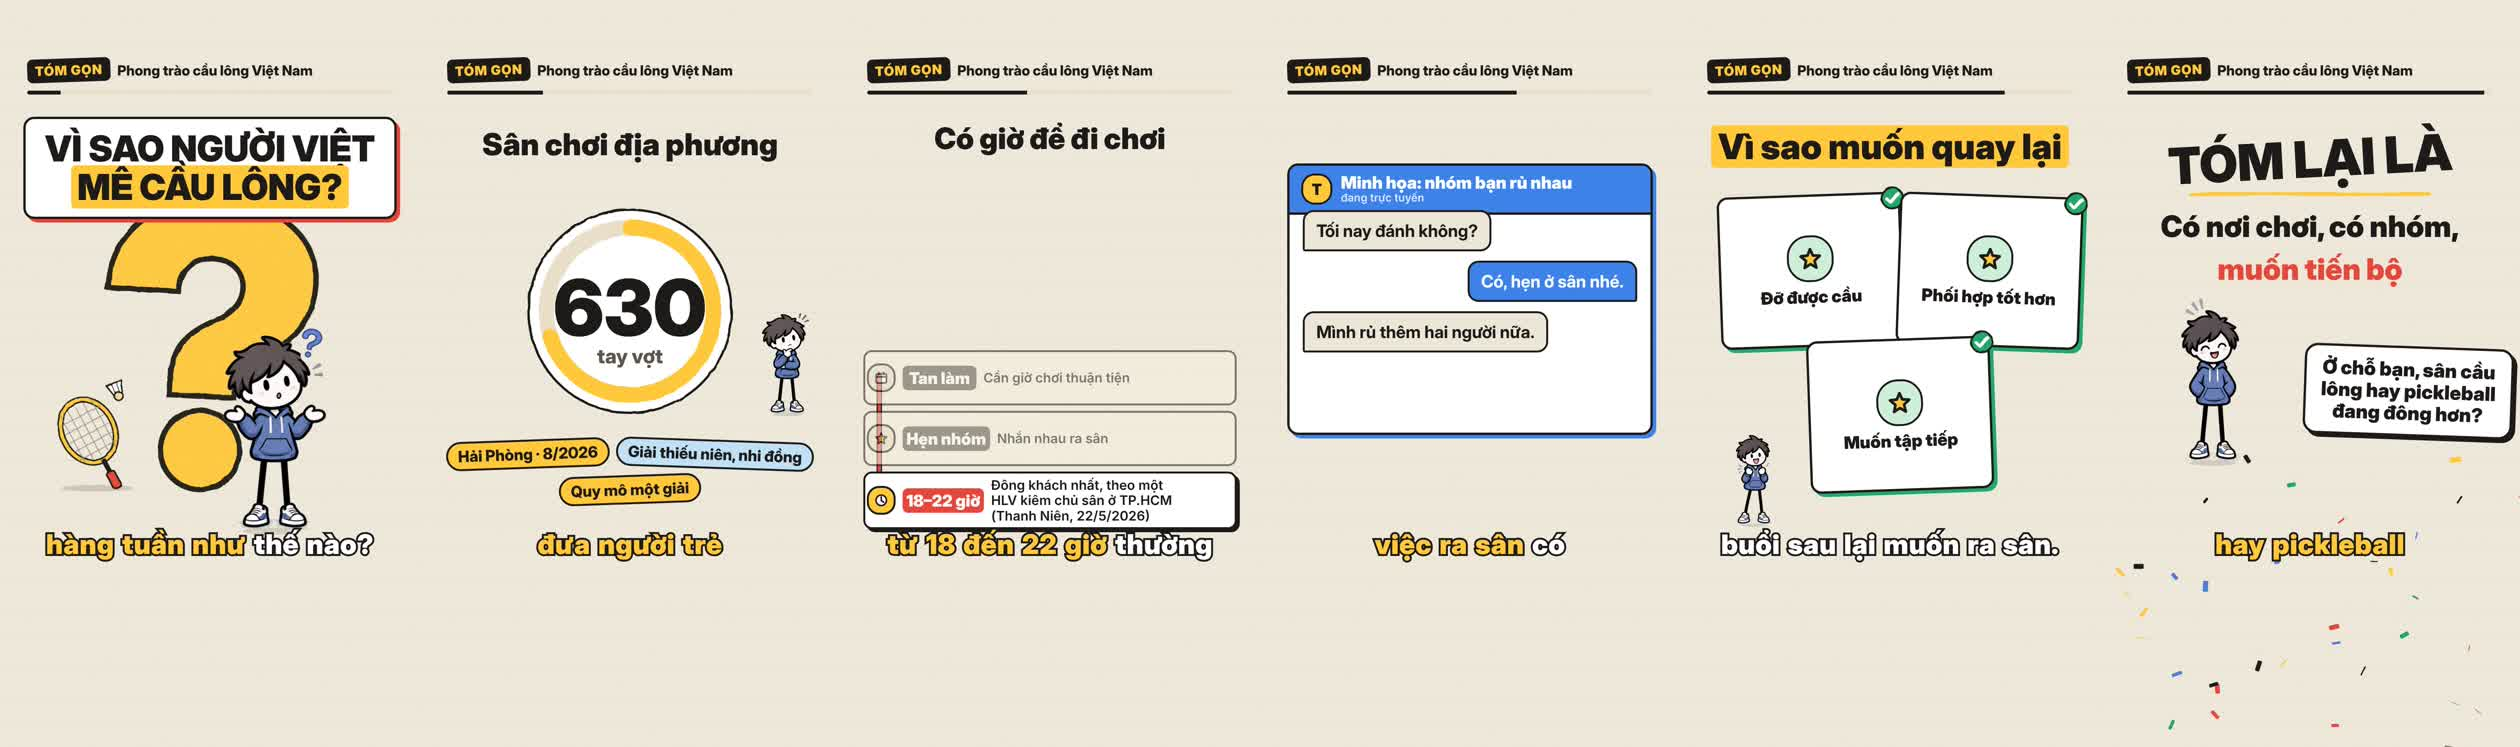
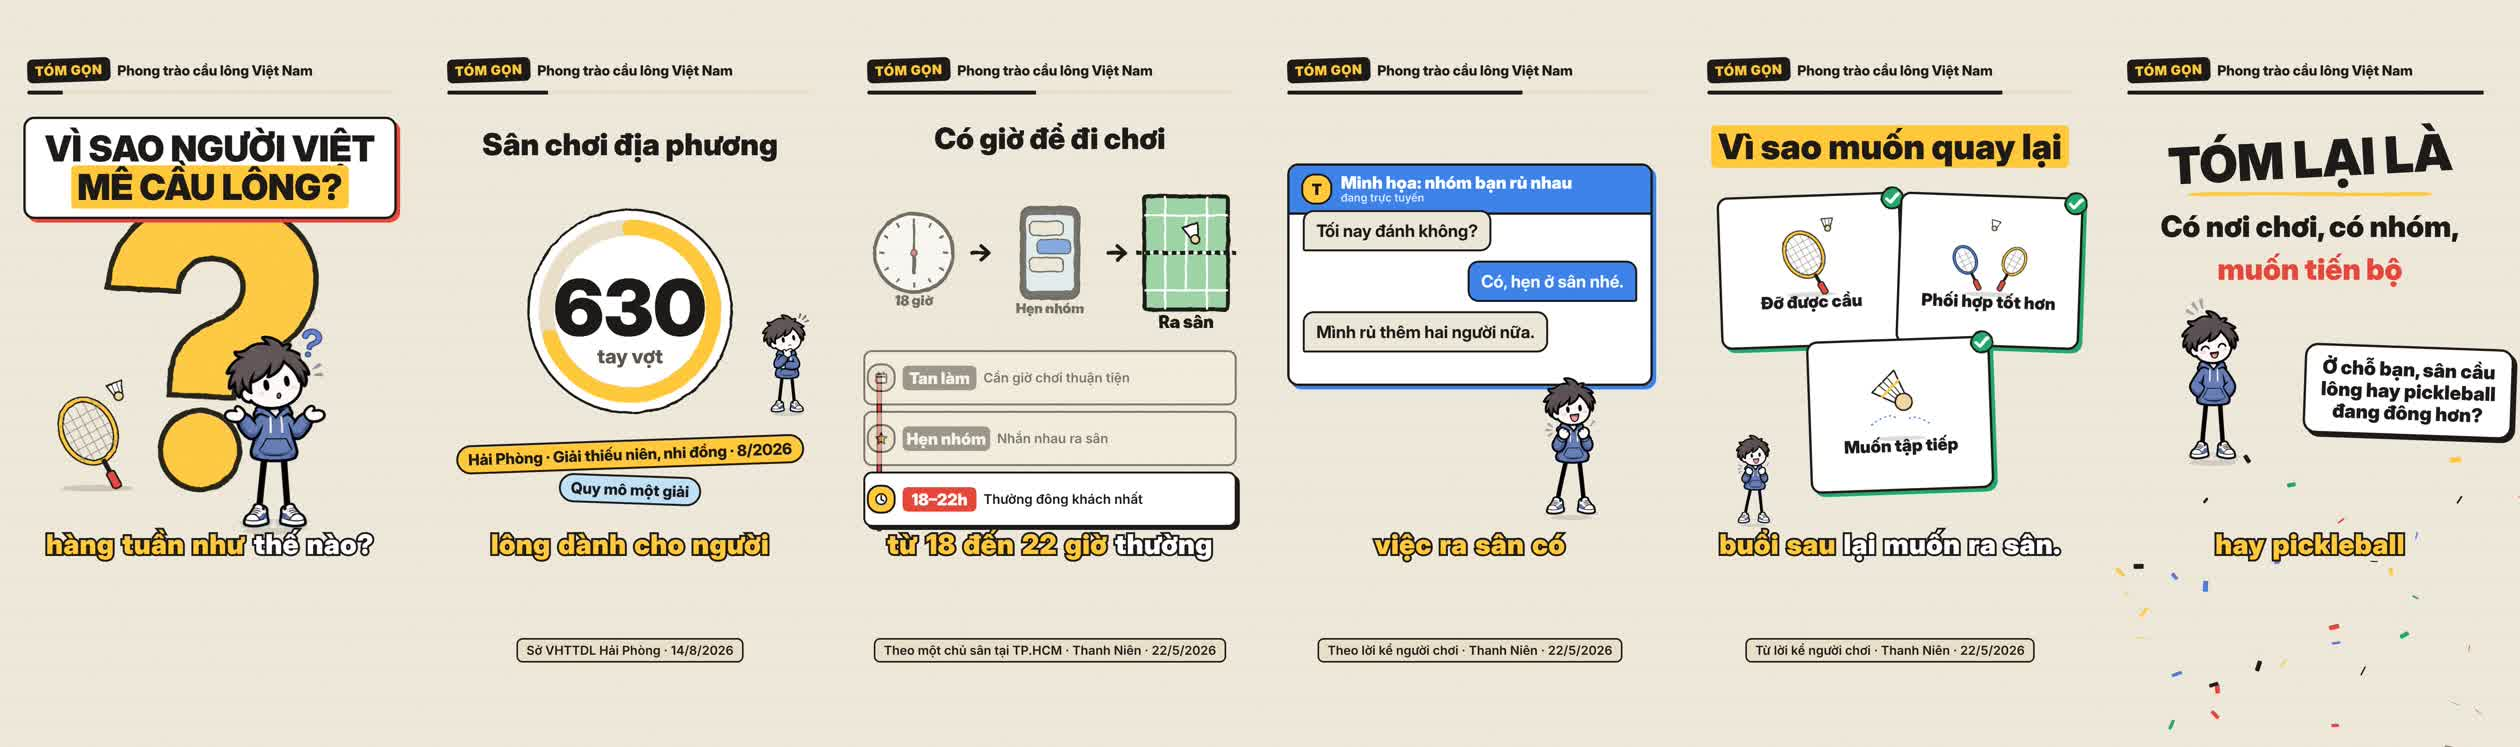
Cầu lông VN vòng 3: sửa chữ theo bản chốt, nhãn nguồn riêng, hình tan làm/hẹn nhóm/ra sân, mascot lớn ở cảnh chat, hình vợt-cầu thay biểu tượng sao
Claude-Session: https://claude.ai/code/session_01SK73tA9qiAmtFVAyngxgL7

diff --git a/src/scenes/TimelineScene.tsx b/src/scenes/TimelineScene.tsx
@@ -22,7 +22,9 @@ export const TimelineScene: React.FC<{ scene: TimelineData; frames: number }> = 
       <Stage>
         {(scene.art ?? "zone") === "zone" ? (
           <ZoneMap x={540} y={660} size={400} level={step.level ?? 1} reveal={ease(frame, starts[active], 14)} />
-        ) : scene.art === "none" ? null : (
+        ) : scene.art === "none" ? null : scene.art === "commute" ? (
+          <Commute active={active} start={starts[active]} />
+        ) : (
           <g transform={`translate(0 ${-(1 - pop(frame, starts[active], 260)) * 14})`}>
             <BigArt name={scene.art as never} x={540} y={640} scale={0.5 + 0.04 * Math.min(1, pop(frame, starts[active], 260))} />
           </g>
@@ -83,5 +85,51 @@ export const TimelineScene: React.FC<{ scene: TimelineData; frames: number }> = 
         <Sfx key={i} name="tick" at={st} volume={0.6} />
       ))}
     </AbsoluteFill>
+  );
+};
+
+/** Tan làm → nhắn nhóm → ra sân: ba hình lớn, hình đang nói tới được phóng to. */
+const Commute: React.FC<{ active: number; start: number }> = ({ active, start }) => {
+  const frame = useCurrentFrame();
+  const ink = color.ink;
+  const sc = (i: number) => 0.9 + 0.22 * (i === active ? pop(frame, start, 200) : 0);
+  const op = (i: number) => (i === active ? 1 : 0.6);
+  const hand = (deg: number, len: number, w: number) => (
+    <path d={`M0 0 L${Math.sin((deg * Math.PI) / 180) * len} ${-Math.cos((deg * Math.PI) / 180) * len}`} stroke={ink} strokeWidth={w} strokeLinecap="round" />
+  );
+  const arrow = (x: number) => <path d={`M${x - 26} 650 H${x + 14} M${x - 2} 632 L${x + 18} 650 L${x - 2} 668`} fill="none" stroke={ink} strokeWidth="9" strokeLinecap="round" strokeLinejoin="round" />;
+  return (
+    <g filter="url(#boil)">
+      <g transform={`translate(190 650) scale(${sc(0)})`} opacity={op(0)}>
+        <circle r="112" fill={color.white} stroke={ink} strokeWidth="10" />
+        {[...Array(12)].map((_, k) => <path key={k} d={`M0 -98 V-84`} stroke={ink} strokeWidth="6" transform={`rotate(${k * 30})`} />)}
+        {hand(180, 56, 11)}
+        {hand((frame * 2) % 360 * (active === 0 ? 1 : 0) + 0, 80, 7)}
+        <circle r="9" fill={color.red} stroke={ink} strokeWidth="4" />
+        <text y="150" textAnchor="middle" fontFamily={font.display} fontWeight={900} fontSize="40" fill={ink}>18 giờ</text>
+      </g>
+      {arrow(365)}
+      <g transform={`translate(540 650) scale(${sc(1)})`} opacity={op(1)}>
+        <rect x="-82" y="-130" width="164" height="260" rx="28" fill="#2B2724" stroke={ink} strokeWidth="9" />
+        <rect x="-68" y="-108" width="136" height="216" rx="14" fill="#DCEFFB" />
+        <g transform={`translate(0 ${(1 - Math.min(1, (frame - start) / 14)) * 8})`}>
+          <rect x="-58" y="-90" width="96" height="40" rx="14" fill="#ECE6D6" stroke={ink} strokeWidth="4" />
+          <rect x="-38" y="-38" width="96" height="40" rx="14" fill={color.blue} stroke={ink} strokeWidth="4" />
+          <rect x="-58" y="14" width="96" height="40" rx="14" fill="#ECE6D6" stroke={ink} strokeWidth="4" />
+        </g>
+        <text y="172" textAnchor="middle" fontFamily={font.display} fontWeight={900} fontSize="40" fill={ink}>Hẹn nhóm</text>
+      </g>
+      {arrow(715)}
+      <g transform={`translate(890 650) scale(${sc(2)})`} opacity={op(2)}>
+        <rect x="-96" y="-130" width="192" height="260" rx="8" fill="#9ED3A5" stroke={ink} strokeWidth="9" />
+        <path d="M-96 0 H96 M-96 -86 H96 M-96 86 H96 M0 -86 V86 M-48 -130 V130 M48 -130 V130" stroke={color.white} strokeWidth="5" fill="none" />
+        <path d="M-114 0 H114" stroke={ink} strokeWidth="9" strokeDasharray="12 8" />
+        <g transform={`translate(${Math.sin(frame / 10) * 20} ${-40 + Math.cos(frame / 8) * 14}) rotate(-20)`}>
+          <path d="M-10 0 L-18 -26 H18 L10 0 Z" fill={color.white} stroke={ink} strokeWidth="4" />
+          <circle cy="8" r="10" fill="#F2D6A2" stroke={ink} strokeWidth="4" />
+        </g>
+        <text y="172" textAnchor="middle" fontFamily={font.display} fontWeight={900} fontSize="40" fill={ink}>Ra sân</text>
+      </g>
+    </g>
   );
 };

diff --git a/src/components/Art.tsx b/src/components/Art.tsx
@@ -418,7 +418,7 @@ export const Icon: React.FC<{ name: IconName; size?: number; fg?: string }> = ({
 
 export type ArtName =
   | "phone" | "house" | "money" | "doc" | "gold" | "shield" | "bank"
-  | "idcard" | "lockphone" | "rentsign" | "piggy" | "ring" | "taxform" | "ship" | "medcard" | "chart" | "racket";
+  | "idcard" | "lockphone" | "rentsign" | "piggy" | "ring" | "taxform" | "ship" | "medcard" | "chart" | "racket" | "shuttle" | "rally";
 
 /** Hình vẽ lớn (khoảng 400×400, gốc ở giữa). `t` là thời gian hoạt họa theo khung hình. */
 export const BigArt: React.FC<{ name: ArtName; x: number; y: number; scale?: number; tint?: string }> = ({
@@ -744,6 +744,45 @@ export const BigArt: React.FC<{ name: ArtName; x: number; y: number; scale?: num
             <circle r="44" fill={A} stroke={ink} strokeWidth="7" />
             <text x="0" y="16" textAnchor="middle" fontFamily={font.display} fontWeight={900} fontSize="44" fill={ink}>%</text>
           </g>
+        </g>
+      )}
+      {name === "shuttle" && (
+        <g>
+          {(() => {
+            const tt = (frame % 60) / 60;
+            const a = tt * Math.PI * 2;
+            return (
+              <g transform={`translate(${Math.cos(a) * 40} ${Math.sin(a) * 26}) rotate(${-30 + Math.sin(a) * 14})`}>
+                <path d="M-40 -10 L-92 -150 H92 L40 -10 Z" fill={color.white} stroke={ink} strokeWidth="9" />
+                <path d="M-18 -10 L-34 -150 M0 -10 V-150 M18 -10 L34 -150" stroke={ink} strokeWidth="5" />
+                <path d="M-70 -90 H70" stroke={A} strokeWidth="14" />
+                <circle cx="0" cy="22" r="50" fill="#F2D6A2" stroke={ink} strokeWidth="9" />
+              </g>
+            );
+          })()}
+          <path d="M-170 120 Q-60 40 -20 90 M170 120 Q80 60 40 100" fill="none" stroke={color.blue} strokeWidth="9" strokeLinecap="round" strokeDasharray="4 26" />
+        </g>
+      )}
+      {name === "rally" && (
+        <g>
+          {[-1, 1].map((sd) => (
+            <g key={sd} transform={`translate(${sd * 118} 60) rotate(${sd * 32 + Math.sin(frame / 8 + sd) * 6})`}>
+              <ellipse cx="0" cy="-60" rx="62" ry="82" fill="none" stroke={ink} strokeWidth="18" />
+              <ellipse cx="0" cy="-60" rx="62" ry="82" fill="none" stroke={sd < 0 ? color.blue : A} strokeWidth="9" />
+              <path d="M-38 -90 H38 M-38 -60 H38 M-38 -30 H38 M-20 -130 V10 M20 -130 V10" stroke="#8E8A84" strokeWidth="3" />
+              <rect x="-8" y="22" width="16" height="56" fill={ink} />
+              <rect x="-14" y="72" width="28" height="64" rx="10" fill={color.red} stroke={ink} strokeWidth="6" />
+            </g>
+          ))}
+          {(() => {
+            const tt = (frame % 40) / 40;
+            return (
+              <g transform={`translate(${-60 + tt * 120} ${-130 - Math.sin(tt * Math.PI) * 70}) rotate(${-40 + tt * 80})`}>
+                <path d="M-14 -4 L-26 -42 H26 L14 -4 Z" fill={color.white} stroke={ink} strokeWidth="5" />
+                <circle cx="0" cy="5" r="14" fill="#F2D6A2" stroke={ink} strokeWidth="5" />
+              </g>
+            );
+          })()}
         </g>
       )}
       {name === "racket" && (

diff --git a/src/scenes/Layouts.tsx b/src/scenes/Layouts.tsx
@@ -357,7 +357,7 @@ export const ChatScene: React.FC<{ scene: ChatData; frames: number }> = ({ scene
     return { ...m, h, top };
   });
   const bottom = Math.max(...laid.map((m) => m.top + m.h), 900) + 40;
-  const panelH = Math.min(900, Math.max(620, bottom - 450 + 40));
+  const panelH = scene.pose ? 560 : Math.min(900, Math.max(620, bottom - 450 + 40));
   const typing = (m: (typeof laid)[number]) => {
     const s = atFrame(m.at, frames);
     return m.from === "bot" && frame >= s - 16 && frame < s;
@@ -428,6 +428,11 @@ export const ChatScene: React.FC<{ scene: ChatData; frames: number }> = ({ scene
             ))}
           </div>
         ) : null,
+      )}
+      {scene.pose && (
+        <Stage>
+          <Mascot pose={scene.pose} x={800} y={1330} scale={0.7} enter={6} />
+        </Stage>
       )}
       {laid.map((m, i) => (
         <Sfx key={i} name={m.from === "bot" ? "ding" : "pop"} at={atFrame(m.at, frames)} volume={0.4} />
@@ -762,9 +767,15 @@ export const ListVariant: React.FC<{ scene: ListData; frames: number }> = ({ sce
                 transform: `scale(${0.5 + 0.5 * p}) rotate(${(i % 2 ? 2 : -2) * p}deg)`,
               }}
             >
-              <div style={{ width: 110, height: 110, borderRadius: 55, background: good ? "#CDEFD9" : "#F9D2CD", border: `5px solid ${ink}`, display: "flex", alignItems: "center", justifyContent: "center" }}>
-                <Icon name={iconFor(item)} size={66} />
-              </div>
+              {scene.arts?.[i] ? (
+                <div style={{ marginTop: -26, marginBottom: -34 }}>
+                  <ArtBox name={scene.arts[i]} size={200} />
+                </div>
+              ) : (
+                <div style={{ width: 110, height: 110, borderRadius: 55, background: good ? "#CDEFD9" : "#F9D2CD", border: `5px solid ${ink}`, display: "flex", alignItems: "center", justifyContent: "center" }}>
+                  <Icon name={iconFor(item)} size={66} />
+                </div>
+              )}
               <div style={{ fontFamily: font.display, fontWeight: 900, fontSize: 44, lineHeight: 1.1, textAlign: "center", color: ink }}>{item}</div>
               <div style={{ position: "absolute", top: -22, right: -18 }}>
                 <CheckIcon good={good} size={64} />

diff --git a/src/types.ts b/src/types.ts
@@ -59,6 +59,8 @@ type SceneBase = {
   /** Cụm từ trong lời đọc làm "điểm chốt": dấu đóng/giật zoom xảy ra đúng lúc đọc tới cụm này. */
   cue?: string;
   broll?: Broll | Broll[];
+  /** Nhãn nguồn nhỏ nằm dưới phụ đề, không bị camera zoom cắt. */
+  source?: string;
   sub?: string;
   /** Giây đệm thêm sau giọng đọc (mặc định 0.35). */
   pad?: number;
@@ -66,7 +68,7 @@ type SceneBase = {
 
 export type ArtName =
   | "phone" | "house" | "money" | "doc" | "gold" | "shield" | "bank"
-  | "idcard" | "lockphone" | "rentsign" | "piggy" | "ring" | "taxform" | "ship" | "medcard" | "chart" | "racket";
+  | "idcard" | "lockphone" | "rentsign" | "piggy" | "ring" | "taxform" | "ship" | "medcard" | "chart" | "racket" | "shuttle" | "rally";
 
 export type HookScene = SceneBase & {
   type: "hook";
@@ -100,7 +102,7 @@ export type TimelineScene = SceneBase & {
   headline: string;
   steps: TimelineStep[];
   /** Hình bên trên các bước. Bỏ trống = bản đồ Vành đai 1 (video Hà Nội). */
-  art?: ArtName | "zone" | "none";
+  art?: ArtName | "zone" | "none" | "commute";
 };
 
 export type CompareCard = {
@@ -142,6 +144,8 @@ export type ListScene = SceneBase & {
   pose?: MascotPose;
   /** Bố cục: rows (mặc định) | tiles (ô vuông) | notes (giấy nhớ) | clipboard (bảng kẹp giấy). */
   layout?: "rows" | "tiles" | "notes" | "clipboard";
+  /** Riêng "tiles": hình BigArt thay cho biểu tượng nhỏ ở từng ô. */
+  arts?: ArtName[];
 };
 
 export type VerdictScene = SceneBase & {
@@ -188,6 +192,8 @@ export type MythScene = SceneBase & {
 export type ChatScene = SceneBase & {
   type: "chat";
   title?: string;
+  /** Có thì hiện mascot lớn dưới khung chat (khung chat gọn lại). */
+  pose?: MascotPose;
   messages: { from: "user" | "bot"; text: string; at: number }[];
 };
 

diff --git a/src/Short.tsx b/src/Short.tsx
@@ -1,6 +1,6 @@
 import React from "react";
 import { AbsoluteFill, Audio, Sequence, interpolate, staticFile, useCurrentFrame } from "remotion";
-import { FPS } from "./brand";
+import { FPS, color, font } from "./brand";
 import { Captions } from "./components/Captions";
 import { Header } from "./components/Header";
 import { Paper } from "./components/Paper";
@@ -144,6 +144,13 @@ export const Short: React.FC<ShortProps> = ({ script, timings, credits = {} }) =
             {brollsOf(scene.broll).map((b, j) => (
               <Broll key={j} index={j} item={b} slug={script.id} frames={t.frames} credits={credits} scene={scene} />
             ))}
+            {scene.source ? (
+              <div style={{ position: "absolute", left: 60, right: 60, top: 1640, textAlign: "center", opacity: Math.min(1, frame < t.from ? 0 : (frame - t.from) / 10) }}>
+                <span style={{ display: "inline-block", fontFamily: font.body, fontWeight: 700, fontSize: 32, color: color.ink, background: color.paperDark, border: `4px solid ${color.ink}`, borderRadius: 16, padding: "8px 22px" }}>
+                  {scene.source}
+                </span>
+              </div>
+            ) : null}
             <Captions text={scene.sub ?? scene.voice} speechFrames={Math.max(1, t.frames - pad)} />
             {t.audio ? <Audio src={staticFile(t.audio)} /> : null}
           </Sequence>

diff --git a/videos/cau-long-viet-nam/NOI-DUNG-SOAT.md b/videos/cau-long-viet-nam/NOI-DUNG-SOAT.md
@@ -1,6 +1,6 @@
-# Cầu lông Việt Nam (vòng 2): lời đọc và chữ trên hình để soát
+# Cầu lông Việt Nam (vòng 3): lời đọc và chữ trên hình để soát
 
-Nhánh `cau-long-viet-nam`. Mỗi cảnh: LỜI ĐỌC, PHỤ ĐỀ, CHỮ TRÊN HÌNH. Lời đọc 234 từ; thời lượng ước tính khoảng 50 giây (chưa đo bằng TTS).
+Nhánh `cau-long-viet-nam`. Lời đọc 218 từ; thời lượng ước tính khoảng 47 giây (CHƯA đo bằng TTS, chưa có MP4 có tiếng). Nhãn nguồn nằm riêng dưới phụ đề (trường `source`).
 
 ## Cảnh 1 (hook)
 
@@ -12,11 +12,11 @@ Nhánh `cau-long-viet-nam`. Mỗi cảnh: LỜI ĐỌC, PHỤ ĐỀ, CHỮ TRÊN
 
 ## Cảnh 2 (stat)
 
-**Lời đọc:** Tại Hải Phòng, một giải cầu lông thiếu niên, nhi đồng tháng tám năm hai không hai sáu quy tụ sáu trăm ba mươi tay vợt. Đó là một ví dụ về sân chơi địa phương đưa người trẻ đến với cầu lông.
+**Lời đọc:** Tại Hải Phòng, một giải cầu lông thiếu niên, nhi đồng tháng tám năm hai không hai sáu quy tụ sáu trăm ba mươi tay vợt. Giải đấu cho thấy một sân chơi cầu lông dành cho người trẻ tại địa phương.
 
-**Phụ đề:** Tại Hải Phòng, một giải cầu lông thiếu niên, nhi đồng tháng 8 năm 2026 quy tụ 630 tay vợt. Đó là một ví dụ về sân chơi địa phương đưa người trẻ đến với cầu lông.
+**Phụ đề:** Tại Hải Phòng, một giải cầu lông thiếu niên, nhi đồng tháng 8 năm 2026 quy tụ 630 tay vợt. Giải đấu cho thấy một sân chơi cầu lông dành cho người trẻ tại địa phương.
 
-**Chữ trên hình:** Sân chơi địa phương | 630 | tay vợt | Hải Phòng · 8/2026 | Giải thiếu niên, nhi đồng | Quy mô một giải
+**Chữ trên hình:** Sân chơi địa phương | 630 | tay vợt | Hải Phòng · Giải thiếu niên, nhi đồng · 8/2026 | Quy mô một giải | Sở VHTTDL Hải Phòng · 14/8/2026 | [Nhãn nguồn] Sở VHTTDL Hải Phòng · 14/8/2026
 
 ## Cảnh 3 (timeline)
 
@@ -24,23 +24,23 @@ Nhánh `cau-long-viet-nam`. Mỗi cảnh: LỜI ĐỌC, PHỤ ĐỀ, CHỮ TRÊN
 
 **Phụ đề:** Còn người đi làm cần giờ chơi thuận tiện. Một huấn luyện viên kiêm chủ sân tại TP.HCM chia sẻ với báo Thanh Niên rằng, từ 18 đến 22 giờ thường đông khách nhất.
 
-**Chữ trên hình:** Có giờ để đi chơi | Tan làm | Cần giờ chơi thuận tiện | Hẹn nhóm | Nhắn nhau ra sân | 18–22 giờ | Đông khách nhất, theo một HLV kiêm chủ sân ở TP.HCM (Thanh Niên, 22/5/2026)
+**Chữ trên hình:** Có giờ để đi chơi | Tan làm | Cần giờ chơi thuận tiện | Hẹn nhóm | Nhắn nhau ra sân | 18–22h | Thường đông khách nhất | Theo một chủ sân tại TP.HCM · Thanh Niên · 22/5/2026 | [Nhãn nguồn] Theo một chủ sân tại TP.HCM · Thanh Niên · 22/5/2026
 
 ## Cảnh 4 (chat)
 
-**Lời đọc:** Người chơi còn có thể tìm các nhóm vãng lai để giao lưu. Một người chơi được phỏng vấn ở Thành phố Hồ Chí Minh hay đến nhóm vãng lai gần nhà. Khi tìm được nhóm hợp nhau, việc ra sân có thêm một lý do.
+**Lời đọc:** Người chơi còn có thể tìm nhóm vãng lai để giao lưu. Ở Thành phố Hồ Chí Minh, có người thường ghé các nhóm gần nhà. Khi tìm được nhóm hợp nhau, việc ra sân có thêm một lý do.
 
-**Phụ đề:** Người chơi còn có thể tìm các nhóm vãng lai để giao lưu. Một người chơi được phỏng vấn ở TP.HCM hay đến nhóm vãng lai gần nhà. Khi tìm được nhóm hợp nhau, việc ra sân có thêm một lý do.
+**Phụ đề:** Người chơi còn có thể tìm nhóm vãng lai để giao lưu. Ở TP.HCM, có người thường ghé các nhóm gần nhà. Khi tìm được nhóm hợp nhau, việc ra sân có thêm một lý do.
 
-**Chữ trên hình:** Minh họa: nhóm bạn rủ nhau | Tối nay đánh không? | Có, hẹn ở sân nhé. | Mình rủ thêm hai người nữa.
+**Chữ trên hình:** Minh họa: nhóm bạn rủ nhau | Tối nay đánh không? | Có, hẹn ở sân nhé. | Mình rủ thêm hai người nữa. | Theo lời kể người chơi · Thanh Niên · 22/5/2026 | [Nhãn nguồn] Theo lời kể người chơi · Thanh Niên · 22/5/2026
 
 ## Cảnh 5 (list)
 
-**Lời đọc:** Rồi đến cảm giác đánh tốt hơn. Một người chơi được phỏng vấn nói môn này đòi hỏi thể lực, kỹ thuật và chiến thuật, nên muốn tập thêm để tiến bộ. Đỡ được một pha cầu khó, buổi sau lại muốn ra sân.
+**Lời đọc:** Rồi đến cảm giác đánh tốt hơn. Thể lực, kỹ thuật và chiến thuật khiến người chơi muốn tập thêm để tiến bộ. Đỡ được một pha cầu khó, buổi sau lại muốn ra sân.
 
-**Phụ đề:** Rồi đến cảm giác đánh tốt hơn. Một người chơi được phỏng vấn nói môn này đòi hỏi thể lực, kỹ thuật và chiến thuật, nên muốn tập thêm để tiến bộ. Đỡ được một pha cầu khó, buổi sau lại muốn ra sân.
+**Phụ đề:** Rồi đến cảm giác đánh tốt hơn. Thể lực, kỹ thuật và chiến thuật khiến người chơi muốn tập thêm để tiến bộ. Đỡ được một pha cầu khó, buổi sau lại muốn ra sân.
 
-**Chữ trên hình:** Vì sao muốn quay lại | Đỡ được cầu | Phối hợp tốt hơn | Muốn tập tiếp
+**Chữ trên hình:** Vì sao muốn quay lại | Đỡ được cầu | Phối hợp tốt hơn | Muốn tập tiếp | Từ lời kể người chơi · Thanh Niên · 22/5/2026 | [Nhãn nguồn] Từ lời kể người chơi · Thanh Niên · 22/5/2026
 
 ## Cảnh 6 (outro)
 

diff --git a/videos/cau-long-viet-nam/sources.md b/videos/cau-long-viet-nam/sources.md
@@ -1,4 +1,4 @@
-# Nguồn: Cầu lông Việt Nam (vòng 2, 5/11/2026)
+# Nguồn: Cầu lông Việt Nam (vòng 3, 5/11/2026)
 
 Ngày truy cập: 05/11/2026. Claude đã mở lại S1, S2 và đối chiếu câu chữ.
 
@@ -9,6 +9,10 @@ Ngày truy cập: 05/11/2026. Claude đã mở lại S1, S2 và đối chiếu c
 | Khung 18–22 giờ thường đông khách nhất | S2 Thanh Niên, Thảo Phương, 22/05/2026 | Lời chị Trần Ngọc Tuyết Sang, giáo viên GDTC kiêm HLV cầu lông ở TP.HCM, người cũng mở sân riêng. Là lời một người, không phải khảo sát |
 | Người chơi hay đến nhóm vãng lai gần nhà để giao lưu | S2 | Đỗ Phương Anh, 25 tuổi, TP.HCM. Định tính, một người |
 | Môn cần thể lực, kỹ thuật, chiến thuật nên muốn tập thêm để tiến bộ | S2 | Cùng nhân vật. Không nâng thành nghiên cứu |
+
+## Lưu ý vòng 3
+- Cảnh 5: file giao việc ghi "Tốc độ, kỹ thuật và chiến thuật", nhưng bài S2 ghi "thể lực, kỹ thuật đến tư duy chiến thuật". Video dùng "Thể lực, kỹ thuật và chiến thuật". ChatGPT xác nhận lại nếu muốn giữ "tốc độ".
+- Người nói giờ 18–22h là HLV kiêm chủ sân; nhãn trên hình ghi "một chủ sân tại TP.HCM" theo giao việc, lời đọc ghi "huấn luyện viên kiêm chủ sân".
 
 ## Nhận định biên tập (không phải dữ kiện nguồn)
 - Mạch "có nơi bắt đầu, có giờ chơi, có nhóm, muốn tiến bộ" là tổng hợp từ các ghi nhận trên, không phải kết quả khảo sát nguyên nhân toàn quốc.
